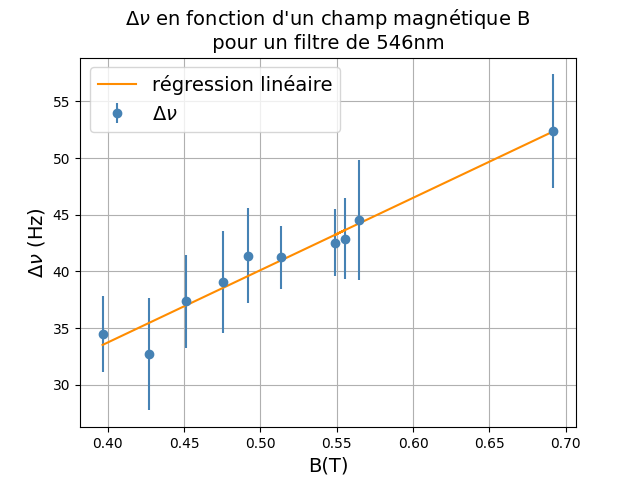
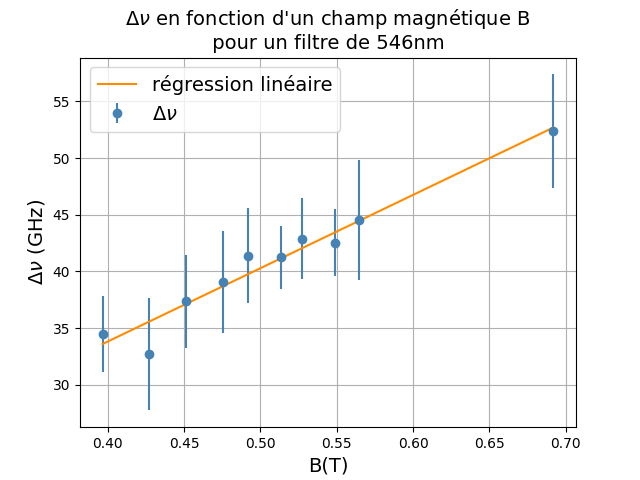
ajout de la partie pour le graphe

diff --git a/LaboZeeman/zeemain.py b/LaboZeeman/zeemain.py
@@ -32,6 +32,7 @@ def graphes(file):
 
         if len(picP) > len(picN):
             surplus = len(picP) - len(picN)
+
             detrop = np.argsort(-np.abs(picP))[:surplus]
             a_enlever = picP[detrop]
             mask = np.ones(len(arr),dtype=bool)
@@ -51,23 +52,11 @@ def graphes(file):
         else:
             équi = arr
 
-            '''while len(équi)>20:
-            m = 2
-            trop = np.argsort(-np.abs(équi))[:m]
-            enlever = équi[trop]
-            mask2 = np.ones(len(équi),dtype=bool)
-            for val in enlever:
-                mask2[np.where(équi==val)[0][0]] = False
-            équi = équi[mask2]'''
-
-
-
 
         return équi + midx
 
     def rayons(y):
         arr = équilibre(y)
-        print(len(arr))
         ray = arr[::-1]-arr
         return ray[ray>0]
 
@@ -143,18 +132,17 @@ def energy(si,li,ji,sf,lf,jf): #calcul les niveau d'énergie avec le champ B (sa
         for mi in Mi:
             for mf in Mf:
                 if mf - mi == 0 or mf - mi == 1 or mf - mi == -1:
-                    print(f'psi_i li:{li} si:{si} ji:{ji} mi:{mi} et psi_f lf:{lf} sf:{sf} jf:{jf} mf:{mf}')
+                    #print(f'psi_i li:{li} si:{si} ji:{ji} mi:{mi} et psi_f lf:{lf} sf:{sf} jf:{jf} mf:{mf}')
                     delta_i = g_landé_i*mi
                     delta_f = g_landé_f*mf
-                    print(mf-mi)
+                    #print(mf-mi)
                     decalage = delta_f - delta_i
-                    print(decalage)
+                    #print(decalage)
 
 #%% conversion de la résistance en champ B
 def RtoB(R):
     return R*0.2823
-R436 = np.loadtxt('donnees//labo3//ZEE_AR_NS//436nm//R436nm.csv',delimiter=',',skiprows=1)[:,1]
-B436 = RtoB(R436)
+
 
 
 #%%
@@ -179,12 +167,122 @@ plt.plot(RtoB(A[:,1]),RtoB(A[:,1])*pcob[0]+pcob[1],color='darkorange',label='ré
 plt.legend(loc='upper left',fontsize=14)
 plt.grid()
 plt.xlabel(r'B(T)',fontsize=14)
-plt.ylabel(r'$\Delta \nu$ (Hz)',fontsize=14)
+plt.ylabel(r'$\Delta \nu$ (GHz)',fontsize=14)
 plt.title(r"$\Delta \nu$" f' en fonction d\'un champ magnétique B \n pour un filtre de 546nm ',fontsize=14)
 plt.savefig(f"donnees//labo3_546")
 plt.show()
 
 #%%
-delta_E = delta_nu*6.62607015e-34*3e08
+delta_E = delta_nu*6.62607015e-34*1e09 #le facteur 10^9 est pour convertir les GHz en Hz
+D_delta_E = d_delta*6.62607015e-34*1e09
+d_B = 0.2823 * 0.01
 
-mu_B = delta_E/2/RtoB(A[:,1])
+mu_B = delta_E/4/RtoB(A[:,1])
+d_mu_B = np.sqrt((D_delta_E/(4*RtoB(A[:,1])))**2 + ((delta_E/(4*(RtoB(A[:,1])**2)))*d_B)**2)
+print(mu_B,d_mu_B)
+print(RtoB(A[:,1]))
+
+#%%
+def graphe2(file,pics):
+    X = np.array(file['X'])
+    midx = round((X[-1] - X[0]) / 2)
+
+    arr = pics[0].copy()
+    arr -= midx
+    valP = (arr[arr>0])[:4] + midx
+    valN = -1*np.array(sorted(np.abs(arr[arr<0])))[:4] +midx
+
+    mid = np.mean((valN+valP)/2)
+
+    R436_a = (arr[(arr+midx)>mid] +midx - mid)[::2]
+    R436_b = (arr[(arr+midx)>mid] +midx - mid)[1::2]
+
+    r_n_a436 = [(i)**2 for i in R436_a]
+    r_n_b436 = [(i)**2 for i in R436_b]
+
+    p436_a = np.array([i+1 for i in range(len(r_n_a436))])
+    p436_b = np.array([i+1 for i in range(len(r_n_b436))])
+
+    #plt.scatter(r_n_a436,p436_a)
+    #plt.show()
+
+
+    popt436a, pcov436a = curve_fit(f,p436_a,r_n_a436)
+    popt436b, pcov436b = curve_fit(f,p436_b,r_n_b436)
+
+    lambd436 =436e-09
+
+    n0_436 = 2*2e-03/lambd436
+    f436_a = np.sqrt(popt436a[0]*n0_436/2)
+    df436_a = 1/2 * np.sqrt(n0_436/(2*popt436a[0])) *pcov436a[0,0]**(1/2)
+
+    f436_b = np.sqrt(popt436b[0]*n0_436/2)
+    df436_b = 1/2 * np.sqrt(n0_436/(2*popt436b[0])) *pcov436b[0,0]**(1/2)
+    return n0_436,f436_a,df436_a,f436_b,df436_b,popt436a,pcov436a,popt436b,pcov436b
+
+#%%
+def epsilon(n0,f_a,df_a,f_b,df_b,popt_a,pcov_a,popt_b,pcov_b):
+    #calcul du epsilon
+    epsilon_a = popt_a[1]*n0/2/f_a**2 +1
+    epsilon_b = popt_b[1]*n0/2/f_b**2 +1
+    #print(epsilon_a,epsilon_b)
+
+    d_epsilon_a2 = ( (n0/(2*f_a**2))**2*pcov_a[1,1] + (n0*popt_a[1]/f_a**3)*df_a**2 )
+    #print('d_epsilon_a:', d_epsilon_a2)
+    d_epsilon_b2 = ((n0/(2*f_b**2))**2*pcov_b[1,1] + (n0*popt_b[1]/f_b**3)*df_b**2 )
+    #print('d_epsilon_b2:', d_epsilon_b2)
+
+
+
+    delta_nu = np.abs(epsilon_a-epsilon_b)/2/2e-03
+    d_delta_nu = np.sqrt(1/(2*2e-03)*(np.abs(d_epsilon_a2+d_epsilon_b2)))
+    #print(d_delta_nu)
+    return delta_nu, d_delta_nu
+
+
+#%% pour 436nm technique légèrement différente à prendre je vais trouver le milieu puis juste prendre les distances
+
+i=0
+B = np.loadtxt('donnees//labo3//ZEE_AR_NS//436nmV2//R436nm.csv', delimiter=',', skiprows=1)
+delta_nu436 = np.zeros(len(B))
+d_delta436 = np.zeros(len(B))
+for item_name in os.listdir('donnees//labo3//ZEE_AR_NS//436nmV2'):
+    if '.csv' and 'plot_' in item_name:
+        if item_name.replace('plot_','').replace("A.csv",'').replace('0','') in f'{B[:,0]}.csv':
+
+            fichier = pd.read_csv(f"donnees//labo3//ZEE_AR_NS//436nmV2//{item_name}",sep=None,engine='python')
+            picos = find_peaks(fichier['Y'], height=40, prominence=0.01 * np.ptp(fichier['Y']), distance=6)
+            #plt.plot(fichier['X'], fichier['Y'])
+            #plt.scatter(picos[0], picos[1]['peak_heights'])
+            #plt.show()
+            delta_nu436[i],d_delta436[i] = epsilon(*graphe2(fichier,picos))
+            i+=1
+print(delta_nu436)
+pcob436, cov436 = curve_fit(f, RtoB(B[:,1]), delta_nu436)
+plt.errorbar(RtoB(B[:,1]),delta_nu436,yerr=d_delta436,color='steelblue',label=r'$\Delta \nu$',ls='',marker='o')
+plt.plot(RtoB(B[:,1]),RtoB(B[:,1])*pcob436[0]+pcob436[1],color='darkorange',label='régression linéaire')
+plt.legend(loc='upper left',fontsize=14)
+plt.grid()
+plt.xlabel(r'B(T)',fontsize=14)
+plt.ylabel(r'$\Delta \nu$ (GHz)',fontsize=14)
+plt.title(r"$\Delta \nu$" f' en fonction d\'un champ magnétique B \n pour un filtre de 436nm ',fontsize=14)
+plt.savefig(f"donnees//labo3_436")
+plt.show()
+
+#%%
+delta_E436 = delta_nu436*6.62607015e-34*1e09 #le facteur 10^9 est pour convertir les GHz en Hz
+D_delta_E436 = d_delta436*6.62607015e-34*1e09
+d_B = 0.2823 * 0.01
+
+mu_B436 = delta_E436/4/RtoB(B[:,1])
+d_mu_B436 = np.sqrt((D_delta_E436/(4*RtoB(B[:,1])))**2 + ((delta_E436/(4*(RtoB(B[:,1])**2)))*d_B)**2)
+print(mu_B436,d_mu_B436)
+print(RtoB(B[:,1]))
+
+#%% RAIE SUPPLÉMENTAIRE
+
+fichier = pd.read_csv(f"donnees//labo3//ZEE_AR_NS//577nm//plot_4.90A.csv",sep=None,engine='python')
+picos = find_peaks(fichier['Y'], height=40, prominence=0.05 * np.ptp(fichier['Y']), distance=6)
+plt.plot(fichier['X'], fichier['Y'])
+plt.scatter(picos[0], picos[1]['peak_heights'])
+plt.show()
